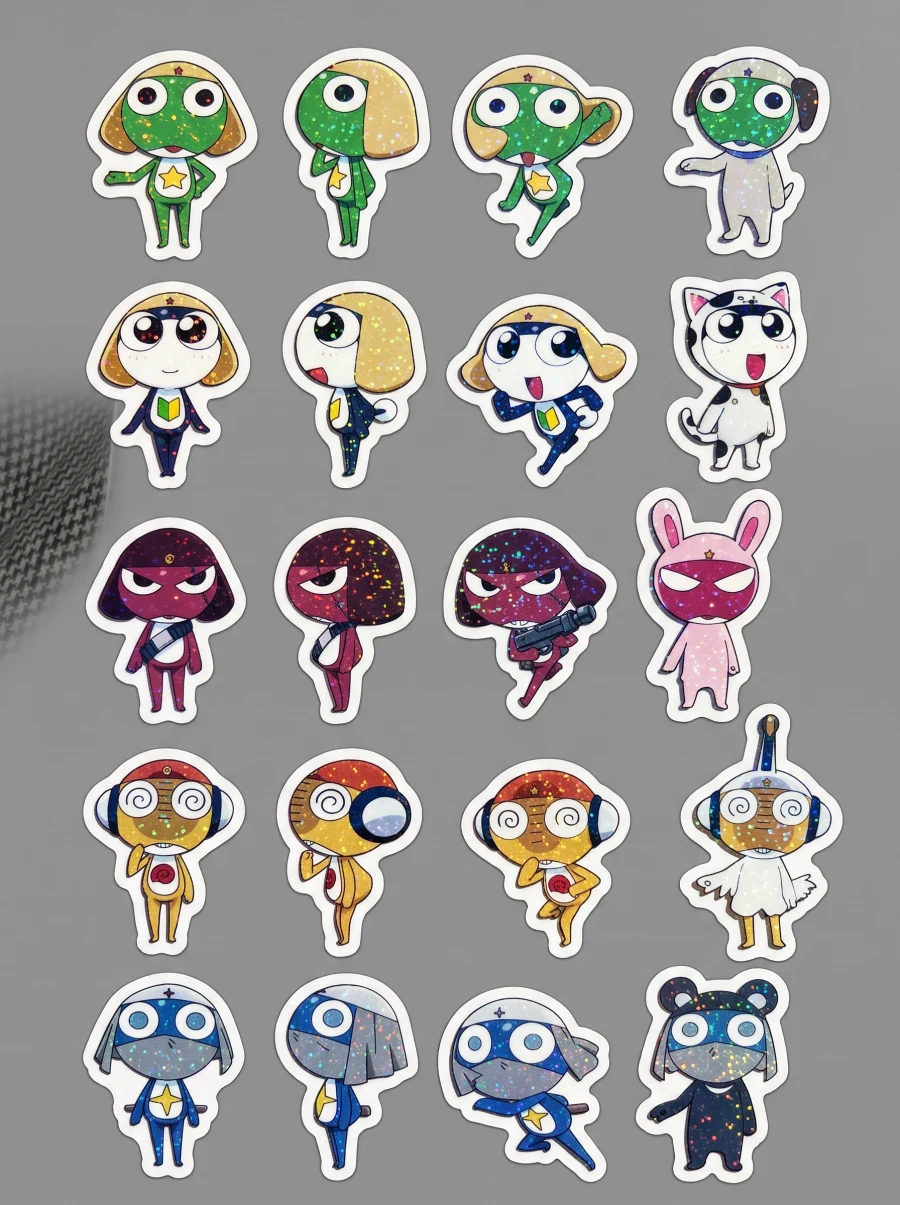
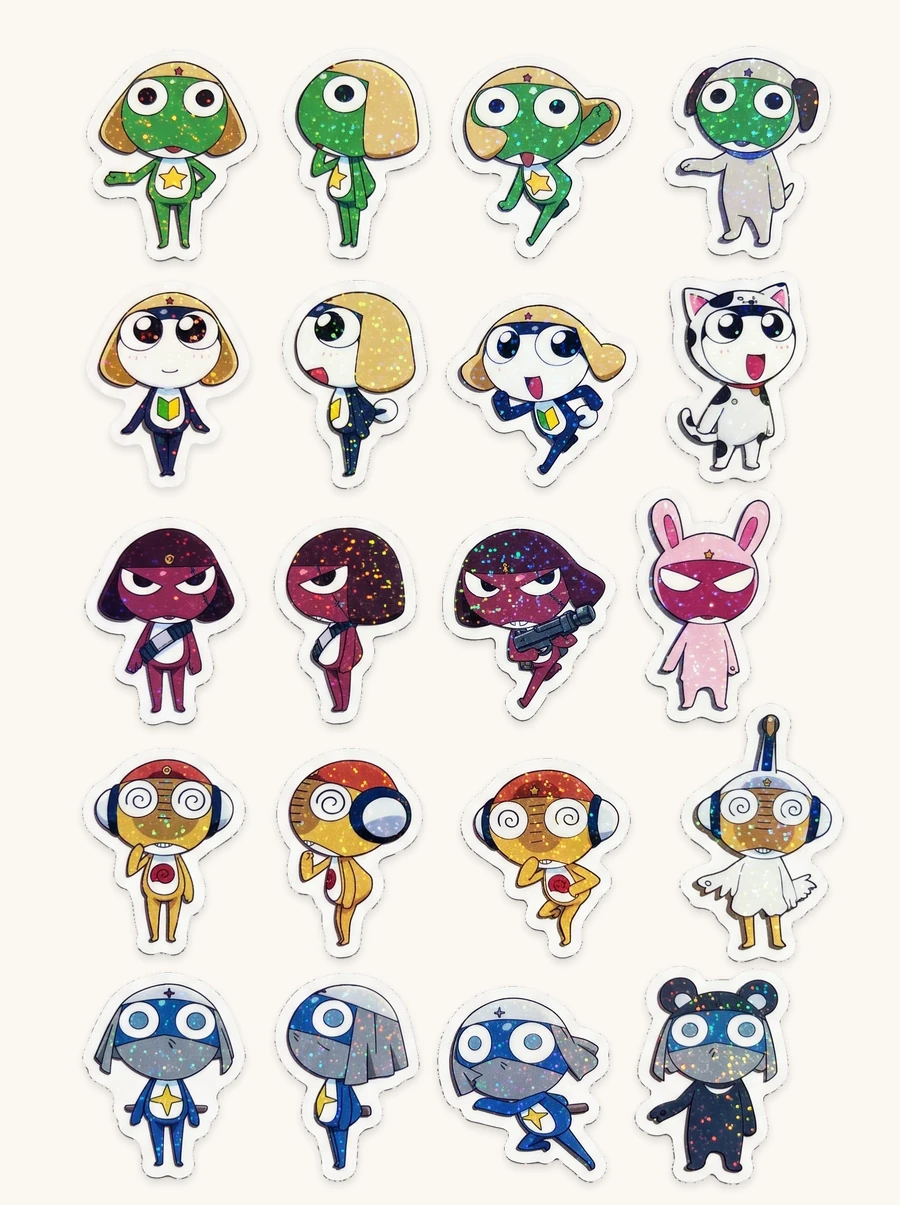
feat: sticker sheets on white paper
The grey backing looked odd. Built-in sheets are re-baked from their
cut-out stickers onto warm white paper, each with a soft shadow so the
white borders show (tool/whiten_sticker_sheets.py). The user's own
sheets are white too, stickers drawn with the same shadow; a peeled-off
spot is a pale cut mark.

diff --git a/lib/widgets/my_sheet_view.dart b/lib/widgets/my_sheet_view.dart
@@ -6,7 +6,7 @@ import '../theme.dart';
 import 'frames.dart';
 import 'sticker_motion.dart';
 
-/// One of the user's sticker sheets drawn like the generated ones: grey
+/// One of the user's sticker sheets drawn like the built-in ones: white
 /// backing paper with the stickers laid out on it. [onTap] gets the sticker
 /// tapped; [selected] stickers get a coral ring.
 class MySheetView extends StatelessWidget {
@@ -18,7 +18,8 @@ class MySheetView extends StatelessWidget {
   final int columns;
   const MySheetView({super.key, required this.sheet, this.onTap, this.onLongPress, this.selected = const {}, this.columns = 4, this.peelOnTap = false});
 
-  static const paper = Color(0xFF9E9E9E);
+  /// The backing paper, and the bare spot a sticker leaves when peeled off.
+  static const paper = Color(0xFFFBF8F3), cut = Color(0xFFEAE3D9);
 
   @override
   Widget build(BuildContext context) => Container(
@@ -29,7 +30,7 @@ class MySheetView extends StatelessWidget {
     ),
     padding: const EdgeInsets.all(10),
     child: sheet.stickers.isEmpty
-      ? const SizedBox(height: 70, child: Center(child: Text('還沒有貼紙', style: TextStyle(fontSize: 12, color: Colors.white70, fontWeight: FontWeight.w700))))
+      ? const SizedBox(height: 70, child: Center(child: Text('還沒有貼紙', style: TextStyle(fontSize: 12, color: muted, fontWeight: FontWeight.w700))))
       : GridView.count(
           shrinkWrap: true,
           physics: const NeverScrollableScrollPhysics(),
@@ -40,7 +41,7 @@ class MySheetView extends StatelessWidget {
                 PeelableSticker(
                   key: ValueKey(id),
                   onPick: () => onTap!(id),
-                  child: Padding(padding: const EdgeInsets.all(6.5), child: FittedBox(child: StickerVisual(id, size: 96))),
+                  child: Padding(padding: const EdgeInsets.all(6.5), child: FittedBox(child: StickerVisual(id, size: 96, shadow: true))),
                 )
               else GestureDetector(
                 onTap: onTap == null ? null : () => onTap!(id),
@@ -50,11 +51,11 @@ class MySheetView extends StatelessWidget {
                   padding: const EdgeInsets.all(4),
                   decoration: BoxDecoration(
                     borderRadius: BorderRadius.circular(12),
-                    color: selected.contains(id) ? Colors.white.withValues(alpha: .28) : Colors.transparent,
+                    color: selected.contains(id) ? blush.withValues(alpha: .6) : Colors.transparent,
                     border: Border.all(color: selected.contains(id) ? coral : Colors.transparent, width: 2.5),
                   ),
                   child: Stack(children: [
-                    Positioned.fill(child: FittedBox(child: StickerVisual(id, size: 96))),
+                    Positioned.fill(child: FittedBox(child: StickerVisual(id, size: 96, shadow: true))),
                     if (selected.contains(id))
                       const Positioned(right: 0, top: 0, child: Icon(CupertinoIcons.checkmark_circle_fill, color: coral, size: 20)),
                   ]),
@@ -64,3 +65,4 @@ class MySheetView extends StatelessWidget {
         ),
   );
 }
+

diff --git a/lib/widgets/frames.dart b/lib/widgets/frames.dart
@@ -1,5 +1,6 @@
 import 'dart:math';
 import 'dart:io';
+import 'dart:ui' as ui;
 
 import 'package:flutter/cupertino.dart' show CupertinoIcons;
 import 'package:flutter/material.dart';
@@ -604,10 +605,27 @@ class EmojiSticker extends StatelessWidget {
 class StickerVisual extends StatelessWidget {
   final String sticker;
   final double size;
-  const StickerVisual(this.sticker, {super.key, this.size = 40});
+  /// A soft shadow under it, so its white border shows on white paper.
+  final bool shadow;
+  const StickerVisual(this.sticker, {super.key, this.size = 40, this.shadow = false});
 
   @override
   Widget build(BuildContext context) {
+    final look = _look();
+    if (!shadow) return look;
+    return Stack(clipBehavior: Clip.none, children: [
+      Positioned.fill(child: Transform.translate(
+        offset: const Offset(0, 2.5),
+        child: ImageFiltered(
+          imageFilter: ui.ImageFilter.blur(sigmaX: 3, sigmaY: 3),
+          child: ColorFiltered(colorFilter: const ColorFilter.mode(Color(0x2E46322A), BlendMode.srcIn), child: look),
+        ),
+      )),
+      look,
+    ]);
+  }
+
+  Widget _look() {
     if (sticker.startsWith('assets/')) return Image.asset(sticker, width: size, height: size, filterQuality: FilterQuality.medium);
     if (sticker.startsWith('text:')) return SizedBox.square(dimension: size, child: FittedBox(child: TextSticker(sticker.substring(5))));
     if (sticker.startsWith('my:')) {

diff --git a/lib/widgets/sticker_book_view.dart b/lib/widgets/sticker_book_view.dart
@@ -227,7 +227,7 @@ class _StickerBookViewState extends State<StickerBookView> with SingleTickerProv
                   Positioned(
                     left: k.rect.left * w, top: k.rect.top * h, width: k.rect.width * w, height: k.rect.height * h,
                     child: IgnorePointer(child: ColorFiltered(
-                      colorFilter: const ColorFilter.mode(MySheetView.paper, BlendMode.srcIn),
+                      colorFilter: const ColorFilter.mode(MySheetView.cut, BlendMode.srcIn),
                       child: Image.asset(k.asset, fit: BoxFit.contain),
                     )),
                   ),
@@ -241,7 +241,7 @@ class _StickerBookViewState extends State<StickerBookView> with SingleTickerProv
                       child: IgnorePointer(child: Stack(clipBehavior: Clip.none, children: [
                         // A paper silhouette covers the printed sticker as it lifts.
                         Positioned.fill(child: ColorFiltered(
-                          colorFilter: const ColorFilter.mode(MySheetView.paper, BlendMode.srcIn),
+                          colorFilter: const ColorFilter.mode(MySheetView.cut, BlendMode.srcIn),
                           child: child,
                         )),
                         Positioned.fill(child: Opacity(

diff --git a/tool/whiten_sticker_sheets.py b/tool/whiten_sticker_sheets.py
@@ -1,0 +1,22 @@
+"""Re-bakes every built-in sticker sheet on warm white paper: each cut-out
+sticker at its place with a soft shadow, so the white borders still show."""
+import re
+from PIL import Image, ImageFilter
+PAPER = (251, 248, 243, 255)
+src = open('lib/sticker_book.dart', encoding='utf8').read()
+for sid, label, sheet, aspect, body in re.findall(r"StickerSheet\('(\w+)', '([^']+)', '([^']+)', ([\d.]+), \[(.*?)\]\)", src, re.S):
+    W, H = Image.open(sheet).size
+    paper = Image.new('RGBA', (W, H), PAPER)
+    k = W / 1000
+    for asset, l, t, w, h in re.findall(r"SheetSticker\('([^']+)', Rect.fromLTWH\(([\d.]+), ([\d.]+), ([\d.]+), ([\d.]+)\)\)", body):
+        im = Image.open(asset).convert('RGBA')
+        x, y = round(float(l) * W), round(float(t) * H)
+        im = im.resize((max(1, round(float(w) * W)), max(1, round(float(h) * H))), Image.LANCZOS)
+        m = round(14 * k)
+        sh = Image.new('RGBA', (im.width + 2 * m, im.height + 2 * m), (70, 50, 40, 0))
+        a = Image.new('L', sh.size, 0); a.paste(im.getchannel('A').point(lambda v: v * 46 // 255), (m, m + round(4 * k)))
+        sh.putalpha(a.filter(ImageFilter.GaussianBlur(5 * k)))
+        paper.alpha_composite(sh, (x - m, y - m))
+        paper.alpha_composite(im, (x, y))
+    paper.convert('RGB').save(sheet, 'WEBP', quality=90, method=6)
+    print(sid, W, H)

diff --git a/README.md b/README.md
@@ -90,7 +90,7 @@
 ### 貼紙
 
 - **貼紙本**：下方是一本貼紙本，一頁一張貼紙紙（亮片、甜點、英文字、日本風、吉伊卡哇、寶可夢、Keroro、中職），左右滑或點上方標籤換頁，貼紙紙可以上下滑。點一張貼紙，它會從紙上浮起來貼到作品上；紙上比較大的貼紙，貼上去也比較大。跟真的貼紙一樣，內建的貼紙在同一個作品裡只能用一次：貼上去之後紙上那格就空了，在作品上刪掉（或復原）會回到紙上，換下一個作品又是一整張新的。自己做的貼紙不會用完。最前面幾頁是自己的貼紙紙（一張紙一頁，黃色標籤）；左邊的放大鏡可以用貼紙或貼紙紙的名字搜尋自己的貼紙。
-- 貼紙紙是生成的整張圖（灰色底紙、白色模切邊），用程式把每張貼紙切下來（`assets/sticker_sheets/`、`lib/sticker_book.dart`）。新增一本：照同樣規格生一張 3:4 的貼紙紙，切好之後加進 `stickerBooks`。
+- 貼紙紙原本是生成的整張圖（灰色底紙、白色模切邊），用程式把每張貼紙切下來（`assets/sticker_sheets/`、`lib/sticker_book.dart`）。App 裡的整張紙是用 `tool/whiten_sticker_sheets.py` 重新排成的：暖白色底紙，每張貼紙放回原位、下面墊一點柔和的陰影，白邊才看得出來。新增一本：照同樣規格生一張 3:4 的貼紙紙，切好之後加進 `stickerBooks`，再跑一次這支程式（在專案根目錄執行）。
 - 四格拍貼的拍貼條很窄，貼紙放在靠邊的地方時，把手可能超出拍貼條、點不到，要先把貼紙拖回中間。
 - 拖曳、兩指縮放和旋轉；右下角把手調整大小和角度，右上角左右翻轉，左上角（紅框）刪除。把手的觸控範圍是 44 點，比畫出來的圓大，不容易按不到。
 
@@ -178,7 +178,7 @@
 首頁底部的「素材」分頁（頁面標題是「我的素材」）。自己的貼紙和模板都在這裡新增、修改、刪除；編輯作品時只能使用。
 
 - **貼紙**：照片去背做成貼紙（可以是輪廓或外框形狀、選材質），做好時可以取名字。
-  - **貼紙紙**：自己的貼紙排在一張張灰色貼紙紙上，每張紙有名字，例如「旅行」、「我家貓咪」；還沒放進紙的貼紙在「未分類」。每張紙就是貼紙本裡的一頁。
+  - **貼紙紙**：自己的貼紙排在一張張白色貼紙紙上（每張下面有淡淡的陰影），每張紙有名字，例如「旅行」、「我家貓咪」；還沒放進紙的貼紙在「未分類」。每張紙就是貼紙本裡的一頁。
   - **一次選很多張**：長按一張貼紙開始選，之後點一下就加選；可以一起移到某張貼紙紙（或新的一張）、刪除，選一張時可以改名字。
   - **搜尋**：上方搜尋欄找貼紙或貼紙紙的名字。
   - 紙右邊的「⋯」：在這張紙上做新貼紙、改名字、刪除紙（上面的貼紙回到未分類）。
@@ -238,7 +238,7 @@
 | `lib/widgets/instant_print.dart` | 拍立得底片與顯影（相機和拼貼共用） |
 | `lib/widgets/sticker_item.dart` | 可拖曳、縮放、旋轉、翻轉的貼紙 |
 | `lib/sticker_book.dart`、`lib/widgets/sticker_book_view.dart` | 貼紙本的資料和畫面 |
-| `lib/widgets/my_sheet_view.dart` | 自己的貼紙紙（灰色底紙上排好貼紙） |
+| `lib/widgets/my_sheet_view.dart` | 自己的貼紙紙（白色底紙上排好貼紙） |
 | `lib/widgets/doodle.dart` | 畫筆：線條、筆的樣式、橡皮擦 |
 | `lib/cutout/` | 去背：頁面、手機內建 AI、GrabCut、筆刷、外框形狀（部分移植自 color_pic） |
 | `lib/services/photo_save_service.dart` | 存圖片、影片到相簿 |
